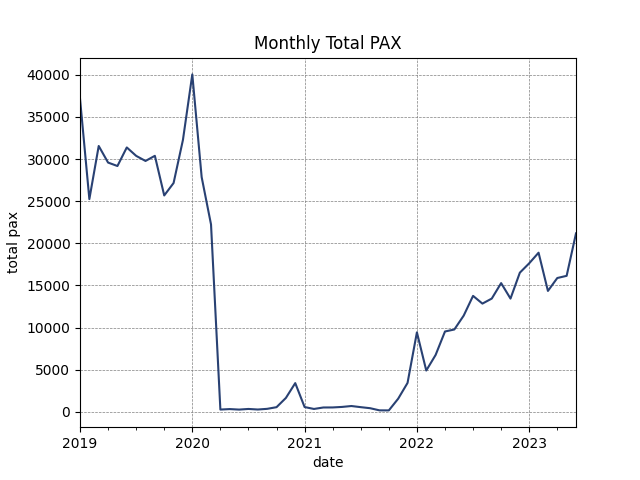
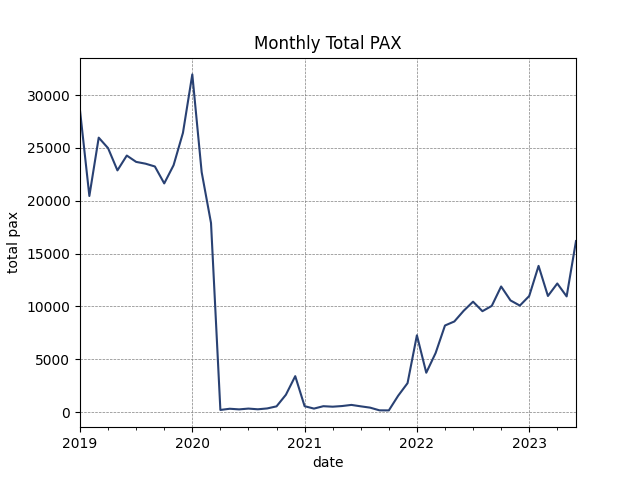
help me pslkfdjalksjfd

diff --git a/DBanalysis/qry_generation_al.py b/DBanalysis/qry_generation_al.py
@@ -11,28 +11,37 @@ engine = create_engine(db_uri, echo=False)
 conn = engine.connect()
 
 def generateAl(origin, orig_continent, destination):
-    
     final = getairline1(orig_continent) + getairline2(origin, destination)
     topal_df = pd.read_sql_query(text(final), conn)
-    
+    print(f"Producing top airlines in terms of {formatAirports(origin)} to {formatAirports(destination)}")
     variables = topal_df['airline'].tolist()
-    airline_df = pd.DataFrame()
+    print(topal_df)
     for vara in variables:
-        qry = getseats1(orig_continent) + getseats2(origin, destination,vara)
-        temp_df = pd.read_sql_query(text(qry), conn)
-        airline_df = pd.concat([airline_df, temp_df])
-
-    al_df = topal_df.merge(airline_df, on = 'airline', how = 'inner')
-    print(al_df)
+        print(destination)
+        print(generateAlMonth(vara, orig_continent, origin, destination))
     return topal_df
 
-def getseats1(continent):
-    firstStr = """
-    SELECT "Op Al" as airline, SUM("Seats") as seats
-    """ + "FROM cirium_schedule_"+continent
-    return firstStr
+def generateAlMonth(airline, continent, orig, dest):
 
+    if len(dest) == 0 or dest[0] == '':
+        return f"""SELECT DISTINCT ON (DATE_TRUNC('month',"Year-Month-Day")) DATE_TRUNC('month', "Year-Month-Day")as month, 
+                sum("Total Pax") as {airline} 
+                FROM cirium_traffic_{continent}
+                WHERE "Year-Month-Day" >= '2022-01-01'
+                AND "Orig" IN {formatAirports(orig)}
+                AND "Op Al" IN ('{airline}')
+                group by "Year-Month-Day"
+                """
     
+    return f"""SELECT DISTINCT ON (DATE_TRUNC('month',"Year-Month-Day")) DATE_TRUNC('month', "Year-Month-Day")as month, 
+                sum("Total Pax") as {airline} 
+                FROM cirium_traffic_{continent}
+                WHERE "Year-Month-Day" >= '2022-01-01'
+                AND "Orig" IN {formatAirports(orig)}
+                AND "Dest" IN {formatAirports(dest)}
+                AND "Op Al" IN ('{airline}')
+                group by "Year-Month-Day"
+                """
 
 def getairline1(continent):
     firstStr = """
@@ -40,27 +49,6 @@ def getairline1(continent):
     """ + "FROM cirium_traffic_"+continent
 
     return firstStr
-
-def getseats2(orig, dest, airline):
-    origstr = formatAirports(orig)
-    finalstr = formatAirports(dest)
-    
-    if len(dest) == 0 or dest[0]=='':
-        return """
-        WHERE "Orig" IN
-        """ + origstr + """
-        AND "Stop-1 Airport" is null
-        """ + """AND "Op Al" IN ('""" + airline + "') Group by airline"
-    
-    final = """
-        WHERE "Orig" IN
-    """ + origstr + """
-    AND "Dest" IN
-    """ + finalstr + """
-    AND "Stop-1 Airport" is null
-    """ + """AND "Op Al" IN ('""" + airline + "') Group by airline"
-
-    return final
  
 
 def getairline2(orig, dest):

diff --git a/DBanalysis/pdf_generation.py b/DBanalysis/pdf_generation.py
@@ -23,6 +23,7 @@ def formatPDF(trdf, aldf, origin, dest):
 
 
 
+
 def totalPax(df):
     df.plot(kind = 'line', x = 'month',y = 'pax', c = '#294173', legend = False)
     plt.title('Monthly Total PAX')
@@ -30,6 +31,7 @@ def totalPax(df):
     plt.ylabel('total pax')
     plt.grid( color = 'grey', linestyle = '--', linewidth = 0.5)
     plt.savefig('sum_pax.png')
+    plt.show()
 
 def avgYields(df):
     df.plot(kind = 'line', x = 'month', y= 'yield', c = '#294173', legend = False)
@@ -38,6 +40,7 @@ def avgYields(df):
     plt.ylabel('Average Yields')
     plt.grid( color = 'grey', linestyle = '--', linewidth = 0.5)
     plt.savefig('avg_yields.png')
+    plt.show()
 
 def totalSeats(df):
     df.plot(kind = 'line', x = 'month', y= 'seats', c = '#294173', legend = False)
@@ -46,6 +49,7 @@ def totalSeats(df):
     plt.ylabel('Total Seats')
     plt.grid( color = 'grey', linestyle = '--', linewidth = 0.5)
     plt.savefig('sum_seats.png')
+    plt.show()
 
 def rev(df):
     df.plot(kind = 'line', x = 'month', y= 'rev', c = '#294173', legend = False)
@@ -54,6 +58,7 @@ def rev(df):
     plt.ylabel('Average Revenue')
     plt.grid(color = 'grey', linestyle = '--', linewidth = 0.5)
     plt.savefig('avg_rev.png')
+    plt.show()
     
 def porig(df):
     df.plot(kind = 'line', x = 'month', y= 'porig', c = '#294173', legend = False)
@@ -62,6 +67,7 @@ def porig(df):
     plt.ylabel('% Passenger of Origin')
     plt.grid( color = 'grey', linestyle = '--', linewidth = 0.5)
     plt.savefig('avg_poo.png')
+    plt.show()
 
 def ask(df):
     df.plot(kind = 'line', x = 'month', y= 'ask', c = '#294173', legend = False)
@@ -71,3 +77,4 @@ def ask(df):
     plt.grid( color = 'grey', linestyle = '--', linewidth = 0.5)
     plt.ticklabel_format(style = 'plain', axis = 'y')
     plt.savefig('avg_ask.png')
+    plt.show()

diff --git a/DBanalysis/test3.py b/DBanalysis/test3.py
@@ -16,9 +16,6 @@ db_uri = 'postgresql://student003:chihrusvfnihdipp@dataviation-database-1.chl8zb
 engine = create_engine(db_uri, echo=False)
 conn = engine.connect()
 
-
-
-
 am_df = pd.read_sql_query(text("SELECT DISTINCT ON (DATE_TRUNC('month', \"Year-Month-Day\")) DATE_TRUNC('month', \"Year-Month-Day\") AS month, SUM(\"Total Pax\")as pax, AVG(\"Yield\")as yield FROM cirium_traffic_northamerica WHERE \"Year-Month-Day\">= '2022-01-01' AND \"Orig\" IN ('LAX') AND \"Stop-1 Airport\" is not null AND \"Total Pax\" >0 GROUP BY \"Year-Month-Day\" LIMIT 10000;"), conn)
 
 am_df.plot(kind = 'line', x = 'month',y = 'pax', c = '#294173', legend = False)
